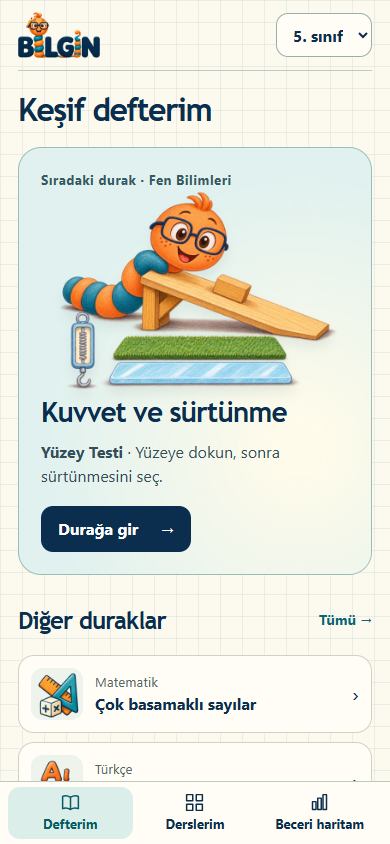
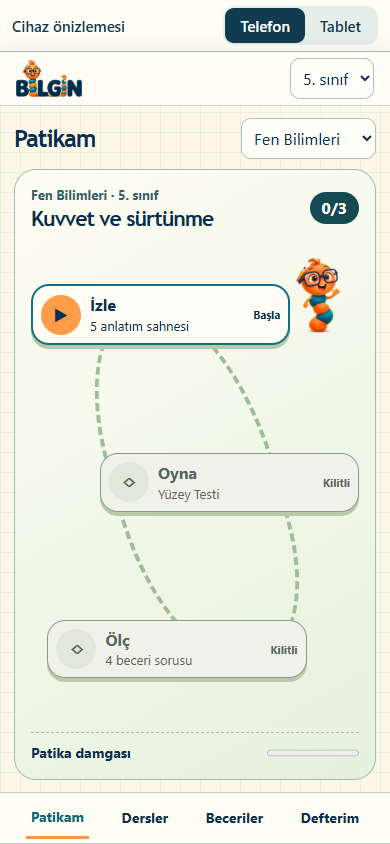
Fit Bilgin learning paths into phone and tablet simulator screens

diff --git a/mobil/mobil.js b/mobil/mobil.js
@@ -1,103 +1,53 @@
-const data = window.IOP_DERS;
-const subjects = {Matematik:'matematik','Türkçe':'turkce','Fen Bilimleri':'fen','Hayat Bilgisi':'hayat','Sosyal Bilgiler':'sosyal','İngilizce':'ingilizce','Din Kültürü':'din','İnkılap Tarihi':'inkilap'};
-const pages = {defter:'Defterim',dersler:'Derslerim',harita:'Beceri haritam'};
-const paths = {
-  defter:'M3 5q4-2 9 1 5-3 9-1v14q-5-2-9 1-5-3-9-1z M12 6v14',
-  dersler:'M3 3h7v7H3z M14 3h7v7h-7z M3 14h7v7H3z M14 14h7v7h-7z',
-  harita:'M4 20V11h4v9z M10 20V7h4v13z M16 20V3h4v17z'
-};
-const select = document.querySelector('#grade');
-select.innerHTML = Array.from({length:8},(_,i)=>'<option value="'+(i+1)+'">'+(i+1)+'. sınıf</option>').join('');
-const gradeParam = new URLSearchParams(location.search).get('k');
-select.value = /^[1-8]$/.test(gradeParam) ? gradeParam : '5';
-select.onchange = () => {const url=new URL(location.href);url.searchParams.set('k',select.value);history.replaceState(null,'',url);render()};
-function lessonUrl(subject){return 'durak.html?k='+select.value+'&d='+encodeURIComponent(subject)}
-function lessonRow(subject){
-  const lesson=data[select.value+'|'+subject];
-  return `<a class="row" href="${lessonUrl(subject)}"><img alt="" src="../assets/ders/${subjects[subject]}.png"><span><small>${subject}</small><strong>${lesson.konu}</strong></span><span class="arrow" aria-hidden="true">›</span></a>`;
-}
-function result(subject){
-  try{
-    const key=select.value+'|'+subject;
-    const entry=JSON.parse(localStorage.getItem('bilgin.mobil.'+key));
-    if(!entry || !Number.isInteger(entry.correct))return null;
-    const skills=(Array.isArray(entry.skills)?entry.skills:[]).filter(b=>b && data[key].beceri.includes(b.name) && Number.isInteger(b.correct) && Number.isInteger(b.total));
-    return {correct:entry.correct,skills};
-  }catch{return null}
+const screen=document.querySelector('#screen'),gradeSelect=document.querySelector('#grade');
+gradeSelect.innerHTML=Array.from({length:8},(_,i)=>'<option value="'+(i+1)+'">'+(i+1)+'. sınıf</option>').join('');
+gradeSelect.value=grade;
+const icons={'Matematik':'matematik','Fen Bilimleri':'fen','Türkçe':'turkce','Hayat Bilgisi':'hayat','Sosyal Bilgiler':'sosyal','Din Kültürü':'din','İngilizce':'ingilizce','İnkılap Tarihi':'inkilap'};
+function choose(s){subject=s;history.replaceState(null,'',url('uygulama.html',location.hash));render()}
+gradeSelect.onchange=()=>{grade=gradeSelect.value;choose(subjects().includes(subject)?subject:subjects()[0])};
+function picker(){return '<select id="subject" aria-label="Ders">'+subjects().map(s=>'<option '+(s===subject?'selected':'')+'>'+s+'</option>').join('')+'</select>'}
+function heading(title){return '<div class="heading"><h1>'+title+'</h1>'+picker()+'</div>'}
+function pathLink(){return '<a class="action" href="#patika">Patikayı aç →</a>'}
+function path(){
+ const l=lesson(),n=level(),details=[l.v.length+' anlatım sahnesi',l.oyun.ad,l.test.length+' beceri sorusu'];
+ const nodes=steps.map((step,i)=>{
+   const status=i<n?'done':i===n?'active':'locked';
+   const mark=i<n?'✓':i===n?'▶':'◇';
+   return '<button class="node '+status+'" data-step="'+i+'" '+(i>n?'disabled':'')+'><b aria-hidden="true">'+mark+'</b><span><strong>'+labels[i]+'</strong><small>'+details[i]+'</small></span><em>'+(i<n?'Tekrar':i===n?'Başla':'Kilitli')+'</em></button>';
+ }).join('');
+ screen.innerHTML=heading('Patikam')+'<div class="trail"><div class="trailTitle"><div><p class="eyebrow">'+subject+' · '+grade+'. sınıf</p><h2>'+l.konu+'</h2></div><span class="score">'+n+'/3</span></div><div class="land"><div class="routeLine"></div><img class="worm" src="../img/poz_selam.webp" alt="">'+nodes+'</div><div class="trailFoot"><span>'+(n===3?'✦ Patika damganı kazandın':'Patika damgası')+'</span><progress max="3" value="'+n+'"></progress></div></div>';
+ screen.querySelectorAll('[data-step]').forEach(b=>b.onclick=()=>location.href=url('etkinlik.html')+'&adim='+steps[Number(b.dataset.step)]);
 }
 function catalog(){
-  return `<form id="filters" role="search"><label>Ders kitaplığında ara<input type="search" id="query" placeholder="Ders, konu, oyun veya beceri"></label><label>Durum<select id="status"><option value="all">Tüm duraklar</option><option value="new">Tamamlanacaklar</option><option value="done">Tamamlananlar</option></select></label></form><p class="meta count" aria-live="polite" id="count"></p><div class="rows catalog" id="matches"></div>`;
-}
-function bindCatalog(list){
-  const form=document.querySelector('#filters');
-  form.onsubmit=e=>e.preventDefault();
-  function update(){
-    const query=form.querySelector('#query').value.trim().toLocaleLowerCase('tr');
-    const status=form.querySelector('#status').value;
-    const matches=list.filter(s=>{
-      const l=data[select.value+'|'+s];
-      const text=[s,l.konu,l.oyun.ad,...l.beceri].join(' ').toLocaleLowerCase('tr');
-      return text.includes(query) && (status==='all' || Boolean(result(s))===(status==='done'));
-    });
-    document.querySelector('#count').textContent=matches.length+' durak';
-    document.querySelector('#matches').innerHTML=matches.length?matches.map(s=>{
-      const l=data[select.value+'|'+s];
-      return `<article class="sheet">${lessonRow(s)}<div class="cardDetail"><p><b>Oyun</b> · ${l.oyun.ad}</p><p>${l.beceri.join(' · ')}</p><small>${result(s)?'✓ Tamamlandı':'Ölç · '+l.test.length+' soru'}</small></div></article>`;
-    }).join(''):'<p>Bu seçimde durak bulunamadı. Aramayı veya durum filtresini değiştir.</p>';
-  }
-  form.oninput=update;
-  update();
-}
-function skillCard(subject){
-  const l=data[select.value+'|'+subject];
-  const r=result(subject);
-  const practice=r.skills.filter(b=>b.correct<b.total).map(b=>b.name);
-  const bars=r.skills.map(b=>`<li><span>${b.name}</span><meter min="0" max="${b.total}" value="${b.correct}" aria-label="${b.name}"></meter><strong>${b.correct}/${b.total}</strong></li>`).join('');
-  return `<article class="sheet skillCard"><p class="meta">${subject}</p><h2>${l.konu}</h2><p>${r.correct} / ${l.test.length} ilk denemede doğru</p><ul class="bars">${bars}</ul>${practice.length?`<p class="feedback"><b>Tekrar çalış</b> · ${practice.join(', ')}</p>`:''}<a class="more" href="${lessonUrl(subject)}&adim=${practice.length?'izle':'oyna'}">${practice.length?'Anlatımı tekrar aç':'Oyunu yeniden oyna'} →</a></article>`;
+ screen.innerHTML='<h1>Ders patikaları</h1><div class="filters"><input type="search" aria-label="Patika ara" placeholder="Ders, oyun veya beceri ara"><select aria-label="İlerleme"><option>Tümü</option><option>Tamamlananlar</option><option>Devam edenler</option></select></div><div id="card"></div>';
+ const input=screen.querySelector('input'),filter=screen.querySelector('select'),card=screen.querySelector('#card');
+ let pos=0;
+ function draw(){
+   const matches=subjects().filter(s=>{
+    const l=IOP_DERS[grade+'|'+s];
+    let done=false;try{done=Number.isInteger(JSON.parse(localStorage.getItem('bilgin.mobil.'+grade+'|'+s))?.correct)}catch{}
+    return (!filter.selectedIndex || (filter.selectedIndex===1)===done) && [s,l.konu,l.oyun.ad,...l.beceri].join(' ').toLocaleLowerCase('tr').includes(input.value.trim().toLocaleLowerCase('tr'));
+   });
+   if(!matches.length){card.innerHTML='<p class="paper">Bu seçimde patika bulunamadı.</p>';return}
+   const s=matches[pos],l=IOP_DERS[grade+'|'+s];
+   card.innerHTML='<article class="paper"><img class="subjectArt" src="../assets/ders/'+icons[s]+'.png" alt=""><p class="eyebrow">'+s+'</p><h2>'+l.konu+'</h2><p>'+l.oyun.ad+' · '+l.test.length+' soru</p><p>'+l.beceri.join(' · ')+'</p><button class="action" id="open">Patikayı aç →</button></article><div class="pager"><button id="prev" aria-label="Önceki patika">←</button><span>'+ (pos+1)+' / '+matches.length+'</span><button id="next" aria-label="Sonraki patika">→</button></div>';
+   card.querySelector('#open').onclick=()=>{choose(s);location.hash='patika'};
+   for(const [id,d] of [['prev',-1],['next',1]]){const b=card.querySelector('#'+id);b.disabled=!matches[pos+d];b.onclick=()=>{pos+=d;draw()}}
+ }
+ input.oninput=filter.onchange=()=>{pos=0;draw()};draw();
 }
 function render(){
-  const page=Object.hasOwn(pages,location.hash.slice(1))?location.hash.slice(1):'defter';
-  const list=Object.keys(subjects).filter(s=>data[select.value+'|'+s]);
-  const completed=list.filter(s=>result(s));
-  const first=list.includes('Fen Bilimleri')?'Fen Bilimleri':list[0];
-  const focus=[first,...list].find(s=>!completed.includes(s))||first;
-  const lesson=data[select.value+'|'+focus];
-  const scene=select.value==='5' && focus==='Fen Bilimleri'?'../assets/sahne/k5.webp':'../img/poz_selam.webp';
-  const summary=`<div class="note"><h2>Durak damgalarım</h2><progress value="${completed.length}" max="${list.length}" aria-label="Tamamlanan duraklar"></progress><p>${list.length} duraktan ${completed.length} tanesini tamamladın.</p></div>`;
-  const nav=document.querySelector('nav');
-  nav.innerHTML=Object.entries(pages).map(([id,label])=>`<a href="#${id}" ${page===id?'aria-current="page"':''}><svg viewBox="0 0 24 24" fill="none" stroke="currentColor" stroke-width="1.7" stroke-linejoin="round" aria-hidden="true"><path d="${paths[id]}"/></svg>${label}</a>`).join('');
-  let body;
-  if(page==='defter'){
-    body=`<div class="spread"><article class="hero"><span class="tag">${completed.length===list.length?"Tekrar durağı":"Sıradaki durak"} · ${focus}</span><img class="art" src="${scene}" alt=""><h2>${lesson.konu}</h2><p class="gameLine"><b>${lesson.oyun.ad}</b> · ${lesson.oyun.yonerge}</p><a class="primary" href="${lessonUrl(focus)}">Durağa gir <span>→</span></a></article><aside class="secondary"><section class="group"><div class="heading"><h2>Diğer duraklar</h2><a class="more" href="#dersler">Tümü →</a></div><div class="rows">${list.filter(s=>s!==focus).slice(0,3).map(lessonRow).join('')}</div></section><section class="group">${summary}</section></aside></div>`;
-  }else if(page==='dersler'){
-    body=catalog();
-  }else{
-    body=summary+(completed.length?'<section class="group"><div class="heading"><h2>Son ölçümlerim</h2></div><div class="catalog rows">'+completed.map(skillCard).join('')+'</div></section>':'<div class="sheet empty"><img src="../img/poz_rozet.webp" alt=""><div><h2>İlk damganı kazan</h2><p>Bir durağın Ölç adımını bitir. Hangi becerileri kazandığını ve hangilerini tekrar çalışabileceğini burada göreceksin.</p><a class="more" href="#dersler">Bir durak seç →</a></div></div>');
-  }
-  document.querySelector('main').innerHTML='<h1>'+(page==='defter'?'Keşif defterim':pages[page])+'</h1>'+body;
-  if(page==='dersler')bindCatalog(list);
-  if(page==='defter'){
-    const notes=list.map(subject=>({subject,text:readLessonNote(select.value,subject)})).filter(note=>note.text);
-    if(notes.length){
-      const section=document.createElement('section');
-      section.className='group';
-      section.innerHTML='<div class="heading"><h2>Ders notlarım</h2></div><div class="rows catalog"></div>';
-      for(const note of notes){
-        const item=document.createElement('a');
-        item.className='sheet noteLink';
-        item.href=lessonUrl(note.subject)+'#notum';
-        const title=document.createElement('strong');
-        title.textContent=data[select.value+'|'+note.subject].konu;
-        const body=document.createElement('p');
-        body.textContent=note.text;
-        item.append(title,body);
-        section.lastElementChild.append(item);
-      }
-      document.querySelector('main').append(section);
-    }
-  }
-  window.scrollTo(0,0);
+ const page=location.hash.slice(1)||'patika';
+ document.querySelectorAll('nav a').forEach(a=>a.toggleAttribute('aria-current',a.hash==='#'+page));
+ if(page==='dersler'){catalog();return}
+ if(page==='defter'){
+  screen.innerHTML=heading('Defterim')+'<form class="paper"><p class="eyebrow">'+subject+'</p><h2>'+lesson().konu+'</h2><label for="note">Bu patikada ne keşfettin?</label><textarea id="note" rows="4" maxlength="1500"></textarea><button class="action">Notumu kaydet</button><p role="status">Notların bu tarayıcıda saklanır.</p></form>';
+  const note=screen.querySelector('textarea');note.value=read('not.');
+  screen.querySelector('form').onsubmit=e=>{e.preventDefault();screen.querySelector('[role=status]').textContent=save('not.',note.value)?'Notun kaydedildi.':'Not kaydedilemedi.'};
+ }else if(page==='harita'){
+  const r=result();
+  screen.innerHTML=heading('Becerilerim')+'<article class="paper"><img class="subjectArt" src="../img/poz_rozet.webp" alt=""><h2>'+lesson().konu+'</h2><p>'+(r?r.correct+' / '+lesson().test.length+' ilk denemede doğru':'Ölç adımını bitirince beceri sonuçların burada görünür.')+'</p><div id="skills"></div>'+pathLink()+'</article>';
+  if(r)for(const b of Array.isArray(r.skills)?r.skills:[]){if(!b||!lesson().beceri.includes(b.name)||!Number.isInteger(b.total)||!Number.isInteger(b.correct))continue;const line=document.createElement('p');line.className='skill';line.textContent=b.name+' · '+b.correct+'/'+b.total;screen.querySelector('#skills').append(line)}
+ }else path();
+ screen.querySelector('#subject').onchange=e=>choose(e.target.value);
 }
-window.addEventListener('hashchange',render);
-window.addEventListener('pageshow',render);
-render();
+window.addEventListener('pageshow',render);window.addEventListener('hashchange',render);render();

diff --git a/mobil/mobil.css b/mobil/mobil.css
@@ -1,20 +1,1 @@
-:root{--lacivert:#0b2e4f;--petrol:#0e6e8c;--mandalina:#ff8a3d;--kiremit:#b4541a;--kenar:#d2f1fb;--kagit:#fbf6e6;--kalem:#3d4f63;--el:'Shantell Sans','Trebuchet MS',system-ui,sans-serif;--ui:Nunito,'Segoe UI',sans-serif;color:var(--lacivert);font:16px/1.45 var(--ui)}
-*{box-sizing:border-box}body{margin:0;background-color:#fcf9ee;background-image:linear-gradient(#c6d6cb55 1px,transparent 1px),linear-gradient(90deg,#c6d6cb55 1px,transparent 1px);background-size:22px 22px}a{color:inherit;text-decoration:none}button,select{font:inherit;color:inherit}a:focus-visible,select:focus-visible,button:focus-visible{outline:3px solid #b4541a;outline-offset:3px}
-header,main{width:min(1080px,calc(100% - 36px));margin:auto}header{display:flex;align-items:center;justify-content:space-between;border-bottom:1px solid #bccbc4;padding:12px 0}.logo{width:82px;height:46px;object-fit:contain}select,.back{background:#fffdf5;border:1px solid #9bafa9;border-radius:12px;padding:8px 12px;min-height:44px;font-weight:700}
-main{padding:22px 0 100px}h1,h2,h3,p{margin:0}h1,h2,h3{font-family:var(--el);line-height:1.08}h1{font-size:clamp(32px,5vw,54px);letter-spacing:-.045em;margin-bottom:19px}h2{font-size:24px;letter-spacing:-.035em}.hero{background:#e0f1ef;border:1px solid #9cbcb6;position:relative;border-radius:23px;overflow:hidden;padding:19px 22px 22px;isolation:isolate}.hero:before{content:'';position:absolute;z-index:-1;inset:0;background:radial-gradient(ellipse at 80% 70%,#fffbea 5%,transparent 65%)}.art{width:100%;height:clamp(145px,24vh,240px);object-fit:contain;display:block;filter:drop-shadow(0 8px 5px #30535316)}.tag,.meta{font-size:13px;font-weight:750;letter-spacing:.04em;color:#345962}.hero h2{font-size:clamp(28px,4vw,42px);margin:5px 0 12px}.primary{display:inline-flex;align-items:center;gap:22px;min-height:46px;background:var(--lacivert);color:white;font-weight:750;padding:10px 17px;border-radius:12px}.primary:hover{background:var(--petrol)}
-.group{margin-top:24px}.heading,.row{display:flex;align-items:center;gap:12px}.heading{justify-content:space-between;margin-bottom:12px}.more{font-size:14px;color:#0a6574;font-weight:750;display:inline-flex;align-items:center;min-height:44px}.rows{display:grid;gap:9px}.row,.note{border:1px solid #ced3c6;border-radius:16px;background:#fffdf6;padding:12px}.row:hover{border-color:#739e9f}.row img{width:52px;height:52px;object-fit:contain;background:#eef3eb;border-radius:12px}.row strong,.row small{display:block}.row small{color:#526966}.arrow{margin-left:auto;font-size:22px}.note{padding:18px;background:#fff3cf}.note h2{margin-bottom:8px}.note p{margin:8px 0;color:#445455}.note progress{width:100%;height:10px;accent-color:var(--petrol)}.secondary{margin-top:24px}.sr{position:absolute;clip-path:inset(50%);width:1px;height:1px;overflow:hidden}
-nav{position:fixed;z-index:5;bottom:0;left:0;right:0;background:#fffdf5;border-top:1px solid #bdc9bc;display:flex;justify-content:center;padding:5px 8px max(5px,env(safe-area-inset-bottom))}nav a{flex:1;max-width:160px;text-align:center;padding:5px;border-radius:12px;font-size:13px;font-weight:750}nav svg{display:block;margin:0 auto 2px;width:21px;height:21px}nav a[aria-current]{background:#dceeea;color:#065c65}.results{margin-top:16px}.results .row{justify-content:space-between;flex-wrap:wrap}
-@media(min-width:740px){header{padding:17px 0}main{padding-top:36px}nav{position:static;width:min(1080px,calc(100% - 36px));margin:auto;justify-content:flex-start;background:transparent;border:0;padding:8px 0}body:has(nav){display:flex;flex-direction:column}header{order:0}nav{order:1}main{order:2}nav a{flex:none;display:flex;align-items:center;gap:9px;padding:11px 16px;font-size:15px}nav svg{margin:0}.spread{display:grid;grid-template-columns:minmax(0,1.45fr) minmax(245px,1fr);gap:22px;align-items:start}.secondary{margin:0}.secondary .group:first-child{margin-top:0}.art{height:clamp(210px,28vw,320px)}.hero{padding:24px}.catalog{grid-template-columns:1fr 1fr}}
-@media(max-height:530px) and (max-width:739px){nav{position:static;margin:auto}main{padding-bottom:20px}}
-.skills{flex-basis:100%;border-top:1px solid #dce3d8;padding-top:8px}
-@media(min-width:740px){nav a{max-width:none;white-space:nowrap}}
-.gameLine{margin:0 0 18px;max-width:48ch;color:#334e5a;line-height:1.5}
-.sheet,.guide,#filters{border:1px solid #bccdc4;border-radius:18px;background:#fffdf6}
-.sheet .row{border:none;background:transparent}.sheet:focus-within{outline:2px solid var(--petrol)}
-.cardDetail{margin:0 15px;padding:12px 0;border-top:1px dashed #b6c7bd;color:#3b555b}.cardDetail small{display:inline-block;margin-top:7px;color:#126477;font-weight:700}
-#filters{display:flex;flex-wrap:wrap;gap:14px;padding:15px}#filters label{display:grid;gap:5px;flex:1;min-width:min(100%,180px);font-weight:700}#filters input{padding:10px 12px;border:1px solid #9bafa9;border-radius:12px;font:inherit;min-width:0;width:100%}.count{margin:14px 2px 8px}
-.skillCard{padding:20px}.skillCard h2,.empty h2{margin:5px 0 10px}.bars{padding:0;list-style:none}.bars li{display:grid;grid-template-columns:minmax(90px,1.3fr) 1fr auto;gap:8px;align-items:center;padding:7px 0}.bars meter{width:100%}.feedback{padding:10px;border-radius:10px;background:#fff0d4}
-.empty{display:flex;align-items:center;gap:16px;padding:18px;margin:18px 0}.empty img{width:clamp(60px,14vw,130px)}
-.guide{margin:0 0 16px}.guide summary{cursor:pointer;font-weight:750;padding:12px 16px;min-height:44px}.guideGrid{display:grid;gap:12px;padding:4px 16px 16px}.guideGrid h2{font-size:17px;margin-bottom:4px;color:var(--petrol)}
-@media(min-width:740px){.guideGrid{grid-template-columns:repeat(3,1fr)}}
-.journal,.noteLink{display:grid;gap:9px;margin-top:16px;padding:18px}.journal label,.noteLink strong{font:700 20px var(--el)}.journal textarea{font:inherit;color:inherit;padding:10px;resize:vertical;border:1px solid #93aaa5;border-radius:10px;width:100%}.journal button{border:0;cursor:pointer}.journal div{display:flex;align-items:center;gap:12px;flex-wrap:wrap}.noteLink p{white-space:pre-wrap;overflow-wrap:anywhere;display:-webkit-box;-webkit-line-clamp:3;-webkit-box-orient:vertical;overflow:hidden}
+:root{--lacivert:#0b2e4f;--petrol:#0e6e8c;--mandalina:#ff8a3d;--kiremit:#b4541a;--kenar:#d2f1fb;--kagit:#fbf6e6;--kalem:#3d4f63;--el:'Trebuchet MS',system-ui,sans-serif;--ui:'Segoe UI',sans-serif;color:var(--lacivert);font:16px/1.4 var(--ui)}*{box-sizing:border-box}body{margin:0;height:100dvh;display:grid;grid-template-rows:54px minmax(0,1fr) 52px;background-color:#fbf7e9;background-image:linear-gradient(#c2d4c444 1px,transparent 1px),linear-gradient(90deg,#c2d4c444 1px,transparent 1px);background-size:20px 20px}header,nav,.heading,.trailTitle,.trailFoot,.pager,.filters{display:flex;align-items:center;justify-content:space-between;gap:8px}header,nav{padding:6px 16px;background:#fffdf4;border-bottom:1px solid #c4d3c6}header img{width:66px;height:40px;object-fit:contain}select,button,input,textarea,a{font:inherit;color:inherit}select,input,textarea,.pager button{max-width:100%;border:1px solid #adc4ba;border-radius:10px;background:#fffef8;padding:8px}button,a{cursor:pointer}button:disabled{cursor:default}a{text-decoration:none}main{min-height:0;width:min(100%,850px);margin:auto;padding:12px 14px;height:100%;display:flex;flex-direction:column;gap:10px}h1,h2,h3,p{margin:0}h1,h2{font:800 clamp(24px,4.5vw,35px)/1.06 var(--el);letter-spacing:-.04em}h2{font-size:clamp(21px,4vw,30px)}.heading select{max-width:53%}nav{justify-content:space-around;border-top:1px solid #c4d3c6}nav a{padding:10px 5px;font-size:14px;font-weight:750}nav a[aria-current]{color:#096674;border-bottom:3px solid #ff9446}.trail,.paper{border:1px solid #9fbeb3;border-radius:22px;background:#fffdf4;padding:16px}.trail{flex:1;min-height:0;display:flex;flex-direction:column;isolation:isolate;background:linear-gradient(150deg,#fffdf3,#e5f1de)}.eyebrow{font-size:13px;font-weight:750;color:#31616a;margin-bottom:4px}.score{background:#144b50;color:white;padding:5px 12px;border-radius:20px;font-weight:bold}.land{flex:1;min-height:0;position:relative;display:grid;align-items:center;isolation:isolate}.routeLine{position:absolute;inset:14% 25%;border:4px dashed #9fbd99;border-radius:38% 55% 32% 50%;transform:rotate(-15deg);z-index:-2}.worm{position:absolute;right:1%;top:0;width:23%;height:26%;object-fit:contain;z-index:-1}.node{position:relative;display:flex;align-items:center;gap:9px;width:79%;max-width:425px;padding:8px;background:#fffdf5;border:1px solid #829e89;border-radius:18px;text-align:left;box-shadow:0 4px 0 #b9c9aa}.node:nth-of-type(2){justify-self:end}.node:nth-of-type(3){margin-left:5%}.node b{border-radius:50%;width:40px;height:40px;display:grid;place-items:center;background:#e1e7d9}.node span{flex:1}.node strong,.node small{display:block}.node small{font-size:13px}.node em{font:700 11px var(--ui)}.node.active{border:2px solid #137082}.node.active b{background:#ff9c4a}.node.done b{background:#c4e8c4}.node.locked{background:#f0f1e8;color:#56665a}.trailFoot{font-weight:bold;font-size:14px;border-top:1px dashed #aaba9f;padding-top:10px}.trailFoot progress{width:28%;accent-color:#0d7882}.paper{display:grid;align-content:center;gap:10px;flex:1}.subjectArt{width:100%;height:clamp(70px,19vh,155px);object-fit:contain}.action{border:0;background:#103c50;color:white;font-weight:750;padding:10px 15px;border-radius:12px;justify-self:start}.filters input{min-width:0;width:60%}.filters select{width:40%}#card{min-height:0;flex:1;display:flex;flex-direction:column;gap:8px}.pager{justify-content:center}.pager button{min-width:48px}.skill{border-bottom:1px dashed #abc3b9;padding:4px 0}textarea{resize:none;width:100%}:focus-visible{outline:3px solid #ad570e;outline-offset:2px}@media(min-width:600px){.land{margin:0 8%}.node{width:57%}.paper{padding-inline:7%}.worm{right:3%;width:19%}.subjectArt{height:105px}.trail{padding:18px 26px}.node small{font-size:15px}}

diff --git a/mobil/durak.html b/mobil/durak.html
@@ -1,46 +1,1 @@
-<!doctype html>
-<html lang="tr">
-<meta charset="utf-8">
-<meta name="viewport" content="width=device-width,initial-scale=1,viewport-fit=cover">
-<title>Ders durağı · BİLGİN</title>
-<link rel="icon" href="../favicon.ico">
-<link rel="stylesheet" href="../iop/iop.css">
-<link rel="stylesheet" href="mobil.css">
-<style>
-#iop{--io-ust:0px;height:auto;max-height:none;min-height:0;background:transparent;overflow:visible}
-#iop .io-ic{padding:0}#iop .io-ust{display:none}.back{display:inline-flex;align-items:center}.lesson{padding-bottom:36px}.lesson h1{margin:5px 0 18px}.lesson img{max-width:100%}.lesson .io-adim{min-height:44px}
-</style>
-<header><img class="logo" src="../assets/logo.png" alt="Bilgin"><a class="back" id="back" href="index.html">← Defterim</a></header>
-<main class="lesson"><p id="context" class="meta"></p><h1 id="topic"></h1><details class="guide"><summary>Bu durakta neler var?</summary><div id="guideContent" class="guideGrid"></div></details><section id="iop" class="iop iop-bolum" aria-label="Ders etkinliği"></section><form class="sheet journal" id="notum"><label for="note">Defterime not</label><textarea id="note" rows="3" maxlength="1500" placeholder="Bu konuda ne keşfettin? Bir örnek yaz."></textarea><div><button class="primary" type="submit">Notumu kaydet</button><span role="status" id="noteStatus"></span></div><small>Bu tarayıcıda saklanır.</small></form></main>
-<script src="notlar.js"></script><script src="../iop/icerik.js"></script><script src="../iop/iop.js"></script>
-<script>
-const params=new URLSearchParams(location.search);
-const key=params.get('k')+'|'+params.get('d');
-const [grade,subject]=(Object.hasOwn(IOP_DERS,key)?key:'5|Fen Bilimleri').split('|');
-const lesson=IOP_DERS[grade+'|'+subject];
-const home='index.html?k='+grade;
-document.getElementById('back').href=home;
-document.getElementById('context').textContent=grade+'. sınıf · '+subject;
-document.getElementById('topic').textContent=lesson.konu;
-const note=document.querySelector('#note');
-note.value=readLessonNote(grade,subject);
-document.querySelector('#notum').onsubmit=event=>{
-  event.preventDefault();
-  const message=document.querySelector('#noteStatus');
-  try{
-    const key=lessonNoteKey(grade,subject);
-    if(note.value.trim())localStorage.setItem(key,note.value.trim());
-    else localStorage.removeItem(key);
-    message.textContent=note.value.trim()?'Defterine kaydedildi.':'Not temizlendi.';
-  }catch{message.textContent='Bu tarayıcı notu kaydedemedi.'}
-};
-if(location.hash==='#notum')requestAnimationFrame(()=>note.focus());
-function saveResult(result){
-  try{localStorage.setItem('bilgin.mobil.'+grade+'|'+subject,JSON.stringify(result))}
-  catch{document.querySelector('.io-sonuc .io-konu').textContent='Bu tarayıcı sonucu kaydedemedi.'}
-}
-document.querySelector('#guideContent').innerHTML=`<div><h2>İzle</h2><p>${lesson.v.length} sahnede ${lesson.konu.toLocaleLowerCase('tr')}.</p></div><div><h2>${lesson.oyun.ad}</h2><p>${lesson.oyun.yonerge}</p></div><div><h2>Ölç</h2><p>${lesson.test.length} soruda ${lesson.beceri.map(b=>b.toLocaleLowerCase('tr')).join(', ')}.</p></div>`;
-const engine=IOP.kur(document.getElementById('iop'),{kok:'../',sinif:Number(grade),ders:subject,haritaLink:home+'#harita',testBitti:saveResult});
-if(params.get('adim')==='oyna')engine.git('oyna',true);
-</script>
-</html>
+<!doctype html><html lang="tr"><meta charset="utf-8"><title>BİLGİN · Patikam</title><script>const q=new URLSearchParams(location.search);q.set('ders','1');location.replace('index.html?'+q+location.hash)</script></html>

diff --git a/mobil/index.html b/mobil/index.html
@@ -1,12 +1,20 @@
-<!doctype html>
-<html lang="tr">
-<meta charset="utf-8">
-<meta name="viewport" content="width=device-width, initial-scale=1, viewport-fit=cover">
-<title>Keşif defterim · BİLGİN</title>
-<link rel="icon" href="../favicon.ico">
-<link rel="stylesheet" href="mobil.css">
-<header><img class="logo" src="../assets/logo.png" alt="Bilgin"><label><span class="sr">Sınıf seç</span><select id="grade"></select></label></header>
-<main id="content"></main>
-<nav aria-label="Ana gezinme"></nav>
-<script src="notlar.js"></script><script src="../iop/icerik.js"></script><script src="mobil.js"></script>
-</html>
+<!doctype html><html lang="tr"><meta charset="utf-8"><meta name="viewport" content="width=device-width,initial-scale=1,viewport-fit=cover"><title>BİLGİN · Patika simülatörü</title><link rel="icon" href="../favicon.ico">
+<style>
+*{box-sizing:border-box}body{margin:0;height:100dvh;display:grid;grid-template-rows:auto minmax(0,1fr);background:#dbe7e4;color:#14384c;font:600 15px 'Segoe UI',sans-serif}header{display:flex;align-items:center;justify-content:center;gap:20px;padding:6px;background:#fffdf4;border-bottom:1px solid #abbbb3}header img{width:58px;height:32px;object-fit:contain}button{border:0;border-radius:9px;min-height:35px;padding:0 15px;font:inherit;color:inherit;background:transparent;cursor:pointer}button[aria-pressed=true]{background:#113b4f;color:white}.switch{background:#e6eeea;border-radius:11px;padding:2px}main{position:relative;min-height:0;background-image:radial-gradient(#93aaa5 1px,transparent 1px);background-size:16px 16px}iframe{position:absolute;top:50%;left:50%;transform-origin:center;background:#fff9ec;border:5px solid #254653;border-radius:24px;box-shadow:0 7px 26px #244f5330;box-sizing:content-box}@media(max-width:500px){header{justify-content:space-between;padding-inline:12px}iframe{border-width:0;border-radius:0}}
+</style><header><span>Cihaz önizlemesi</span><div class="switch" aria-label="Cihaz önizlemesi"><button data-mode="telefon">Telefon</button><button data-mode="tablet">Tablet</button></div></header><main><iframe title="BİLGİN öğrenci uygulaması"></iframe></main><script>
+const frame=document.querySelector('iframe'),stage=document.querySelector('main');
+let mode=innerWidth>=740&&innerWidth<=1100?'tablet':'telefon';
+function size(){
+ const sw=stage.clientWidth,sh=stage.clientHeight,tablet=mode==='tablet';
+ const native=tablet?sw>=600&&sw<=1100:sw<500;
+ const w=native?sw:tablet?900:390,h=native?Math.max(tablet?610:650,sh):tablet?650:760;
+ const border=parseFloat(getComputedStyle(frame).borderLeftWidth)*2;
+ const scale=Math.min(1,sw/(w+border),sh/(h+border));
+ Object.assign(frame.style,{width:w+'px',height:h+'px',transform:'translate(-50%,-50%) scale('+scale+')'});
+ document.querySelectorAll('[data-mode]').forEach(b=>b.setAttribute('aria-pressed',b.dataset.mode===mode));
+}
+document.querySelectorAll('[data-mode]').forEach(b=>b.onclick=()=>{mode=b.dataset.mode;size()});
+new ResizeObserver(size).observe(stage);size();
+const q=new URLSearchParams(location.search);
+frame.src=(q.get('ders')==='1'?'etkinlik.html':'uygulama.html')+location.search+location.hash;
+</script></html>

diff --git a/mobil/etkinlik.js b/mobil/etkinlik.js
@@ -1,0 +1,42 @@
+const root=document.querySelector('#iop'),space=document.querySelector('#space');
+document.querySelector('#back').href=url('uygulama.html','#patika');
+document.querySelector('#journal').href=url('uygulama.html','#defter');
+document.querySelector('#topic').textContent=lesson().konu;
+document.querySelector('#context').textContent=grade+'. sınıf · '+subject;
+let reached=level();
+function unlock(n){if(n>reached){reached=n;save('adim.',String(n))}}
+const engine=IOP.kur(root,{kok:'../',sinif:Number(grade),ders:subject,haritaLink:url('uygulama.html','#harita'),testBitti:r=>{
+ if(save('',JSON.stringify(r)))unlock(3);
+ else document.querySelector('.io-sonuc .io-konu').textContent='Sonuç bu tarayıcıya kaydedilemedi.';
+}});
+const tabs=[...root.querySelectorAll('.io-adim')];
+const forward=root.querySelector('[data-git="oyna"]');
+function gates(){
+ if(tabs[0].classList.contains('bitti'))unlock(1);
+ if(tabs[1].classList.contains('bitti'))unlock(2);
+ tabs.forEach((tab,i)=>tab.disabled=i>reached);
+ forward.disabled=reached<1;
+ forward.title=reached?'Oyunu aç':'Anlatım tamamlanınca oyun açılır';
+}
+root.querySelector('.io-adimlar').addEventListener('keydown',e=>{
+ if(!['ArrowRight','ArrowLeft'].includes(e.key))return;
+ e.stopImmediatePropagation();e.preventDefault();
+ const available=tabs.filter(t=>!t.disabled),i=available.indexOf(document.activeElement);
+ const target=available[(i+(e.key==='ArrowRight'?1:-1)+available.length)%available.length];
+ target.click();target.focus();
+},true);
+gates();new MutationObserver(gates).observe(root.querySelector('.io-adimlar'),{subtree:true,attributes:true,attributeFilter:['class']});
+const step=Math.min(Math.max(0,steps.indexOf(params.get('adim'))),reached);
+engine.git(steps[step],true);
+function fit(){
+ root.style.zoom='1';
+ // Measure the active activity at its natural width before fitting a dense game.
+ const width=Math.max(root.scrollWidth,root.offsetWidth),height=root.offsetHeight;
+ const factor=Math.min(1,(space.clientHeight-4)/Math.max(1,height),space.clientWidth/Math.max(1,width));
+ root.style.width=space.clientWidth+'px';root.style.zoom=String(factor);
+}
+let pending=0;
+function schedule(){if(!pending)pending=requestAnimationFrame(()=>{pending=0;root.style.width=space.clientWidth+'px';fit()})}
+new ResizeObserver(schedule).observe(space);
+new MutationObserver(schedule).observe(root,{subtree:true,childList:true,attributes:true,attributeFilter:['hidden']});
+root.addEventListener('load',schedule,true);schedule();

diff --git a/mobil/notlar.js b/mobil/notlar.js
@@ -1,7 +1,13 @@
-function lessonNoteKey(grade,subject){
-  return 'bilgin.mobil.not.'+grade+'|'+subject;
-}
-function readLessonNote(grade,subject){
-  try{return localStorage.getItem(lessonNoteKey(grade,subject))||''}
-  catch{return ''}
-}
+const params=new URLSearchParams(location.search);
+let grade=/^[1-8]$/.test(params.get('k'))?params.get('k'):'5';
+const steps=['izle','oyna','olc'],labels=['İzle','Oyna','Ölç'];
+function subjects(){return Object.keys(IOP_DERS).filter(k=>k.startsWith(grade+'|')).map(k=>k.split('|')[1])}
+let subject=subjects().includes(params.get('d'))?params.get('d'):(subjects().includes('Fen Bilimleri')?'Fen Bilimleri':subjects()[0]);
+function key(prefix){return 'bilgin.mobil.'+prefix+grade+'|'+subject}
+function read(prefix){try{return localStorage.getItem(key(prefix))||''}catch{return ''}}
+function save(prefix,value){try{localStorage.setItem(key(prefix),value);return true}catch{return false}}
+function result(){try{const r=JSON.parse(read(''));return Number.isInteger(r?.correct)?r:null}catch{return null}}
+function level(){return result()?3:Math.max(0,Math.min(2,Number(read('adim.'))||0))}
+function url(file,hash=''){const q=new URLSearchParams({k:grade,d:subject});return file+'?'+q+hash}
+function lesson(){return IOP_DERS[grade+'|'+subject]}
+

diff --git a/mobil/etkinlik.css b/mobil/etkinlik.css
@@ -1,0 +1,2 @@
+body{grid-template-rows:48px minmax(0,1fr)}header a{padding:8px;font-weight:700}main{padding-top:10px;gap:5px}h1{font-size:clamp(22px,4vw,30px)}#space{flex:1;min-height:0;position:relative}#iop{width:100%;--io-ust:0px}#iop .io-ic{display:block;padding:0}#iop .io-ust{display:none}#iop .io-adimlar{display:grid;grid-template-columns:repeat(3,1fr);gap:6px;margin:8px 0 16px}#iop .io-adim{padding:6px;min-width:0;gap:5px;justify-content:center}#iop .io-adim:disabled{opacity:.48}#iop .io-adim small{display:none}#iop .io-adim .n{width:26px;height:26px}#iop .io-video{max-width:650px}#iop .io-panel{width:100%}#iop .io-kart{padding:13px;gap:7px}#iop .io-soru{line-height:1.22}#iop .bant{width:65px}#iop .io-cevap{min-width:0;padding:10px;font-size:15px}#iop .io-es{padding:6px;min-height:34px}#iop .io-sonuc>img{max-height:85px;width:auto}#iop .io-kesici{gap:1px}#iop .k-ara{min-width:0}#iop .io-kontrol{flex-wrap:wrap}#iop .io-ekran{max-height:37vh}#iop .io-kart{margin-inline:auto}#iop .io-yan img{max-height:42px}#iop .io-gec:disabled{opacity:.5}
+#iop .io-video{width:min(100%,650px)!important}

diff --git a/mobil/etkinlik.html b/mobil/etkinlik.html
@@ -1,0 +1,1 @@
+<!doctype html><html lang="tr"><meta charset="utf-8"><meta name="viewport" content="width=device-width,initial-scale=1"><title>Patika etkinliği · BİLGİN</title><link rel="stylesheet" href="../iop/iop.css"><link rel="stylesheet" href="mobil.css"><link rel="stylesheet" href="etkinlik.css"><header><a id="back">← Patikam</a><a id="journal">Defterim</a></header><main><p class="eyebrow" id="context"></p><h1 id="topic"></h1><div id="space"><section id="iop" class="iop" aria-label="Patika etkinliği"></section></div></main><script src="../iop/icerik.js"></script><script src="../iop/iop.js"></script><script src="notlar.js"></script><script src="etkinlik.js"></script></html>

diff --git a/mobil/uygulama.html b/mobil/uygulama.html
@@ -1,0 +1,1 @@
+<!doctype html><html lang="tr"><meta charset="utf-8"><meta name="viewport" content="width=device-width,initial-scale=1"><title>Patikam · BİLGİN</title><link rel="stylesheet" href="mobil.css"><header><img src="../assets/logo.png" alt="Bilgin"><select id="grade" aria-label="Sınıf"></select></header><main id="screen"></main><nav aria-label="Ana menü"><a href="#patika">Patikam</a><a href="#dersler">Dersler</a><a href="#harita">Beceriler</a><a href="#defter">Defterim</a></nav><script src="../iop/icerik.js"></script><script src="notlar.js"></script><script src="mobil.js"></script></html>
